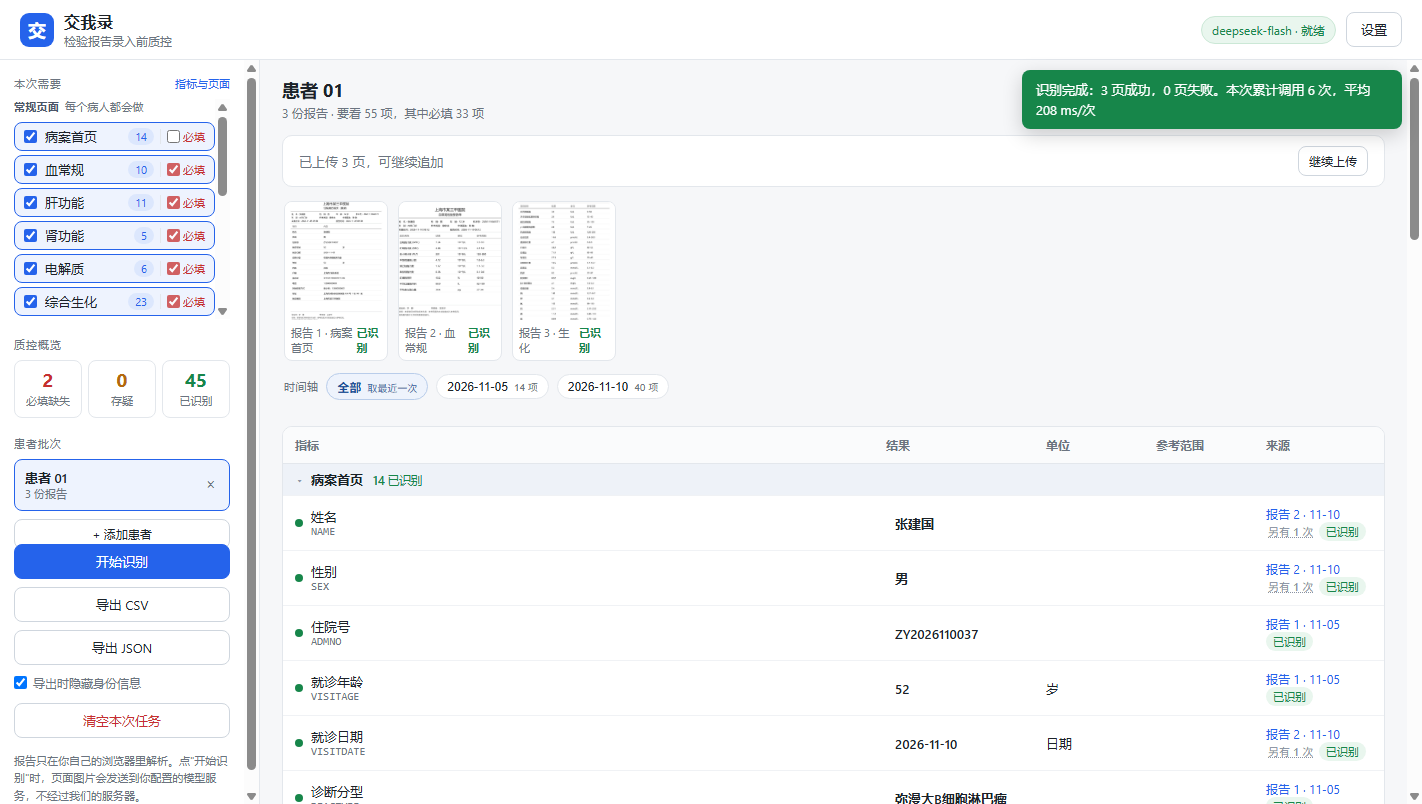
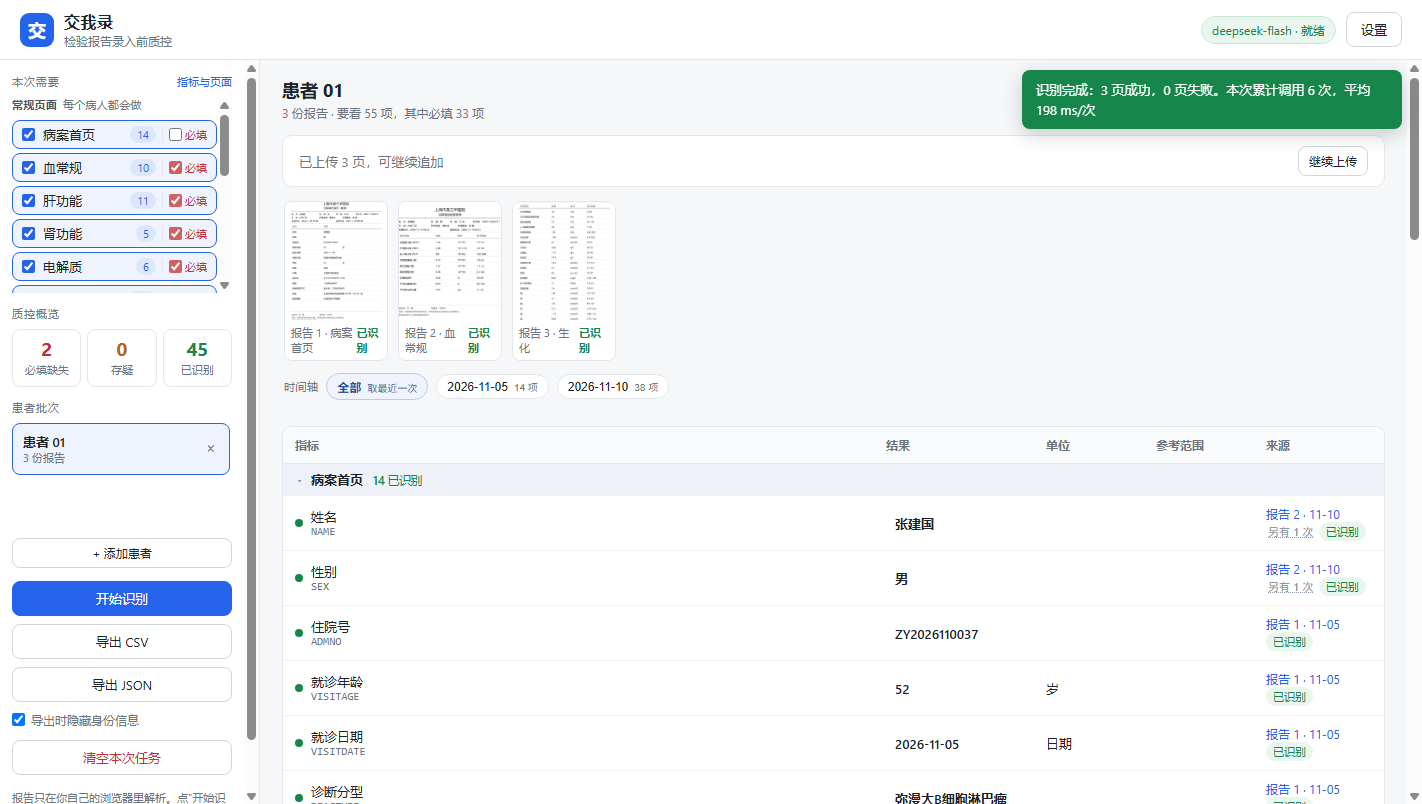
fix sidebar: patient list scrolls inside its block so 添加患者 stays clickable; scroll active patient into view

diff --git a/app/styles.css b/app/styles.css
@@ -85,15 +85,17 @@ body {
 .side {
   border-right: 1px solid var(--line);
   background: var(--card);
-  padding: 16px 14px;
+  padding: 14px 12px;
   display: flex;
   flex-direction: column;
-  gap: 18px;
+  gap: 13px;
   overflow-y: auto;
 }
 
 .side-block { display: flex; flex-direction: column; gap: 8px; }
-.side-block.grow { flex: 1 1 auto; min-height: 90px; }
+/* 患者多的时候这一块会被压缩：必须自己裁剪 + 内部滚动，
+   否则里面的卡片会溢出来盖住下面的"开始识别"，按钮就点不到了 */
+.side-block.grow { flex: 1 1 auto; min-height: 168px; overflow: hidden; }
 .side-block.actions { gap: 8px; }
 
 .side-label {
@@ -129,7 +131,12 @@ body {
 .stat.green b { color: var(--green); }
 
 /* 患者列表 */
-.patient-list { display: flex; flex-direction: column; gap: 6px; }
+.patient-list {
+  display: flex; flex-direction: column; gap: 6px;
+  flex: 1 1 auto; min-height: 0; overflow-y: auto;
+  padding-right: 2px;               /* 给滚动条留一点位置 */
+}
+.side-block.grow > .btn { flex: 0 0 auto; }
 
 .patient {
   display: flex;
@@ -537,7 +544,7 @@ tr.group-hidden { display: none; }
 .link.tiny { font-size: 11px; letter-spacing: 0; text-transform: none; }
 .link.danger { color: var(--red); }
 
-.page-checks { display: flex; flex-direction: column; gap: 4px; max-height: 220px; overflow-y: auto; }
+.page-checks { display: flex; flex-direction: column; gap: 4px; max-height: 196px; overflow-y: auto; }
 .page-check {
   display: flex;
   align-items: center;

diff --git a/app/js/app.js b/app/js/app.js
@@ -361,7 +361,13 @@
 
     if (!S.patients.length) {
       box.innerHTML = '<div class="patient-meta">还没有患者</div>';
+      return;
     }
+
+    /* 患者多的时候列表会滚动。新建或切换后，把当前这位滚进视野，
+       否则刚点"添加患者"生成的新患者正好落在可视区外，看着像没加上。 */
+    var act = box.querySelector('.patient.active');
+    if (act) act.scrollIntoView({ block: 'nearest' });
   }
 
   /* ---------------- 渲染：报告缩略图 ---------------- */
